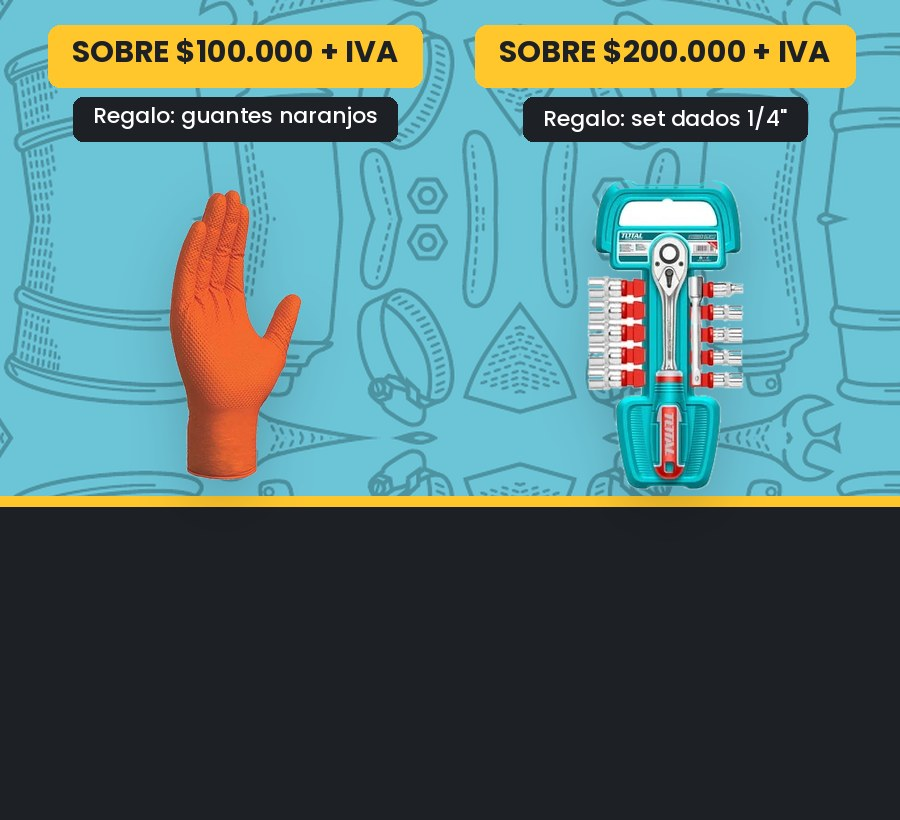
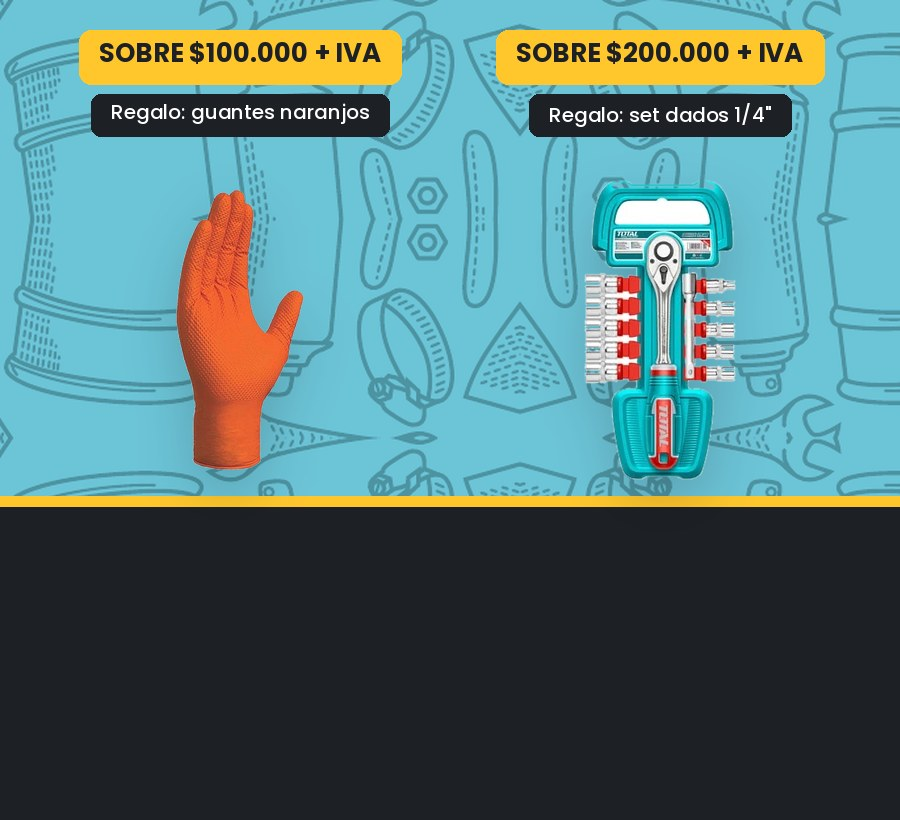
Promo octubre: contenido más al centro para que no se corte
Claude-Session: https://claude.ai/code/session_01Rf7ZPyiRaM91jMSKBPMDMa

diff --git a/trabajo/scripts/promo_octubre.py b/trabajo/scripts/promo_octubre.py
@@ -32,9 +32,9 @@ pt=patron((W,H)).convert("RGBA")
 m=Image.new("L",(W,H),0); ImageDraw.Draw(m).polygon([(820,0),(W,0),(W,H),(640,H)],fill=255)
 c.paste(pt,(0,0),m)
 dr=ImageDraw.Draw(c); dr.line([(820,0),(640,H)],fill=AMAR,width=10)
-pegar(c,fit(g,470),1075,250); pegar(c,fit(d,500),1610,235)
-badge(dr,1075,40,"$100.000","caja de guantes naranjos",34,26)
-badge(dr,1610,40,"$200.000","set de dados 1/4\"",34,26)
+pegar(c,fit(g,440),1080,260); pegar(c,fit(d,470),1500,245)
+badge(dr,1080,60,"$100.000","caja de guantes naranjos",30,24)
+badge(dr,1500,60,"$200.000","set de dados 1/4\"",30,24)
 c.convert("RGB").save('/home/claude/fotos/promo-octubre-escritorio.jpg',quality=88)
 
 # Celular 900x820
@@ -42,7 +42,7 @@ W,H=900,820
 c=Image.new("RGBA",(W,H),CARBON+(255,))
 pt=patron((W,500)).convert("RGBA"); c.paste(pt,(0,0))
 dr=ImageDraw.Draw(c); dr.rectangle((0,496,W,506),fill=AMAR)
-pegar(c,fit(g,290),235,190); pegar(c,fit(d,310),665,180)
-badge(dr,235,25,"$100.000","guantes naranjos",30,22)
-badge(dr,665,25,"$200.000","set dados 1/4\"",30,22)
+pegar(c,fit(g,280),240,190); pegar(c,fit(d,300),660,180)
+badge(dr,240,30,"$100.000","guantes naranjos",26,20)
+badge(dr,660,30,"$200.000","set dados 1/4\"",26,20)
 c.convert("RGB").save('/home/claude/fotos/promo-octubre-celular.jpg',quality=88)
